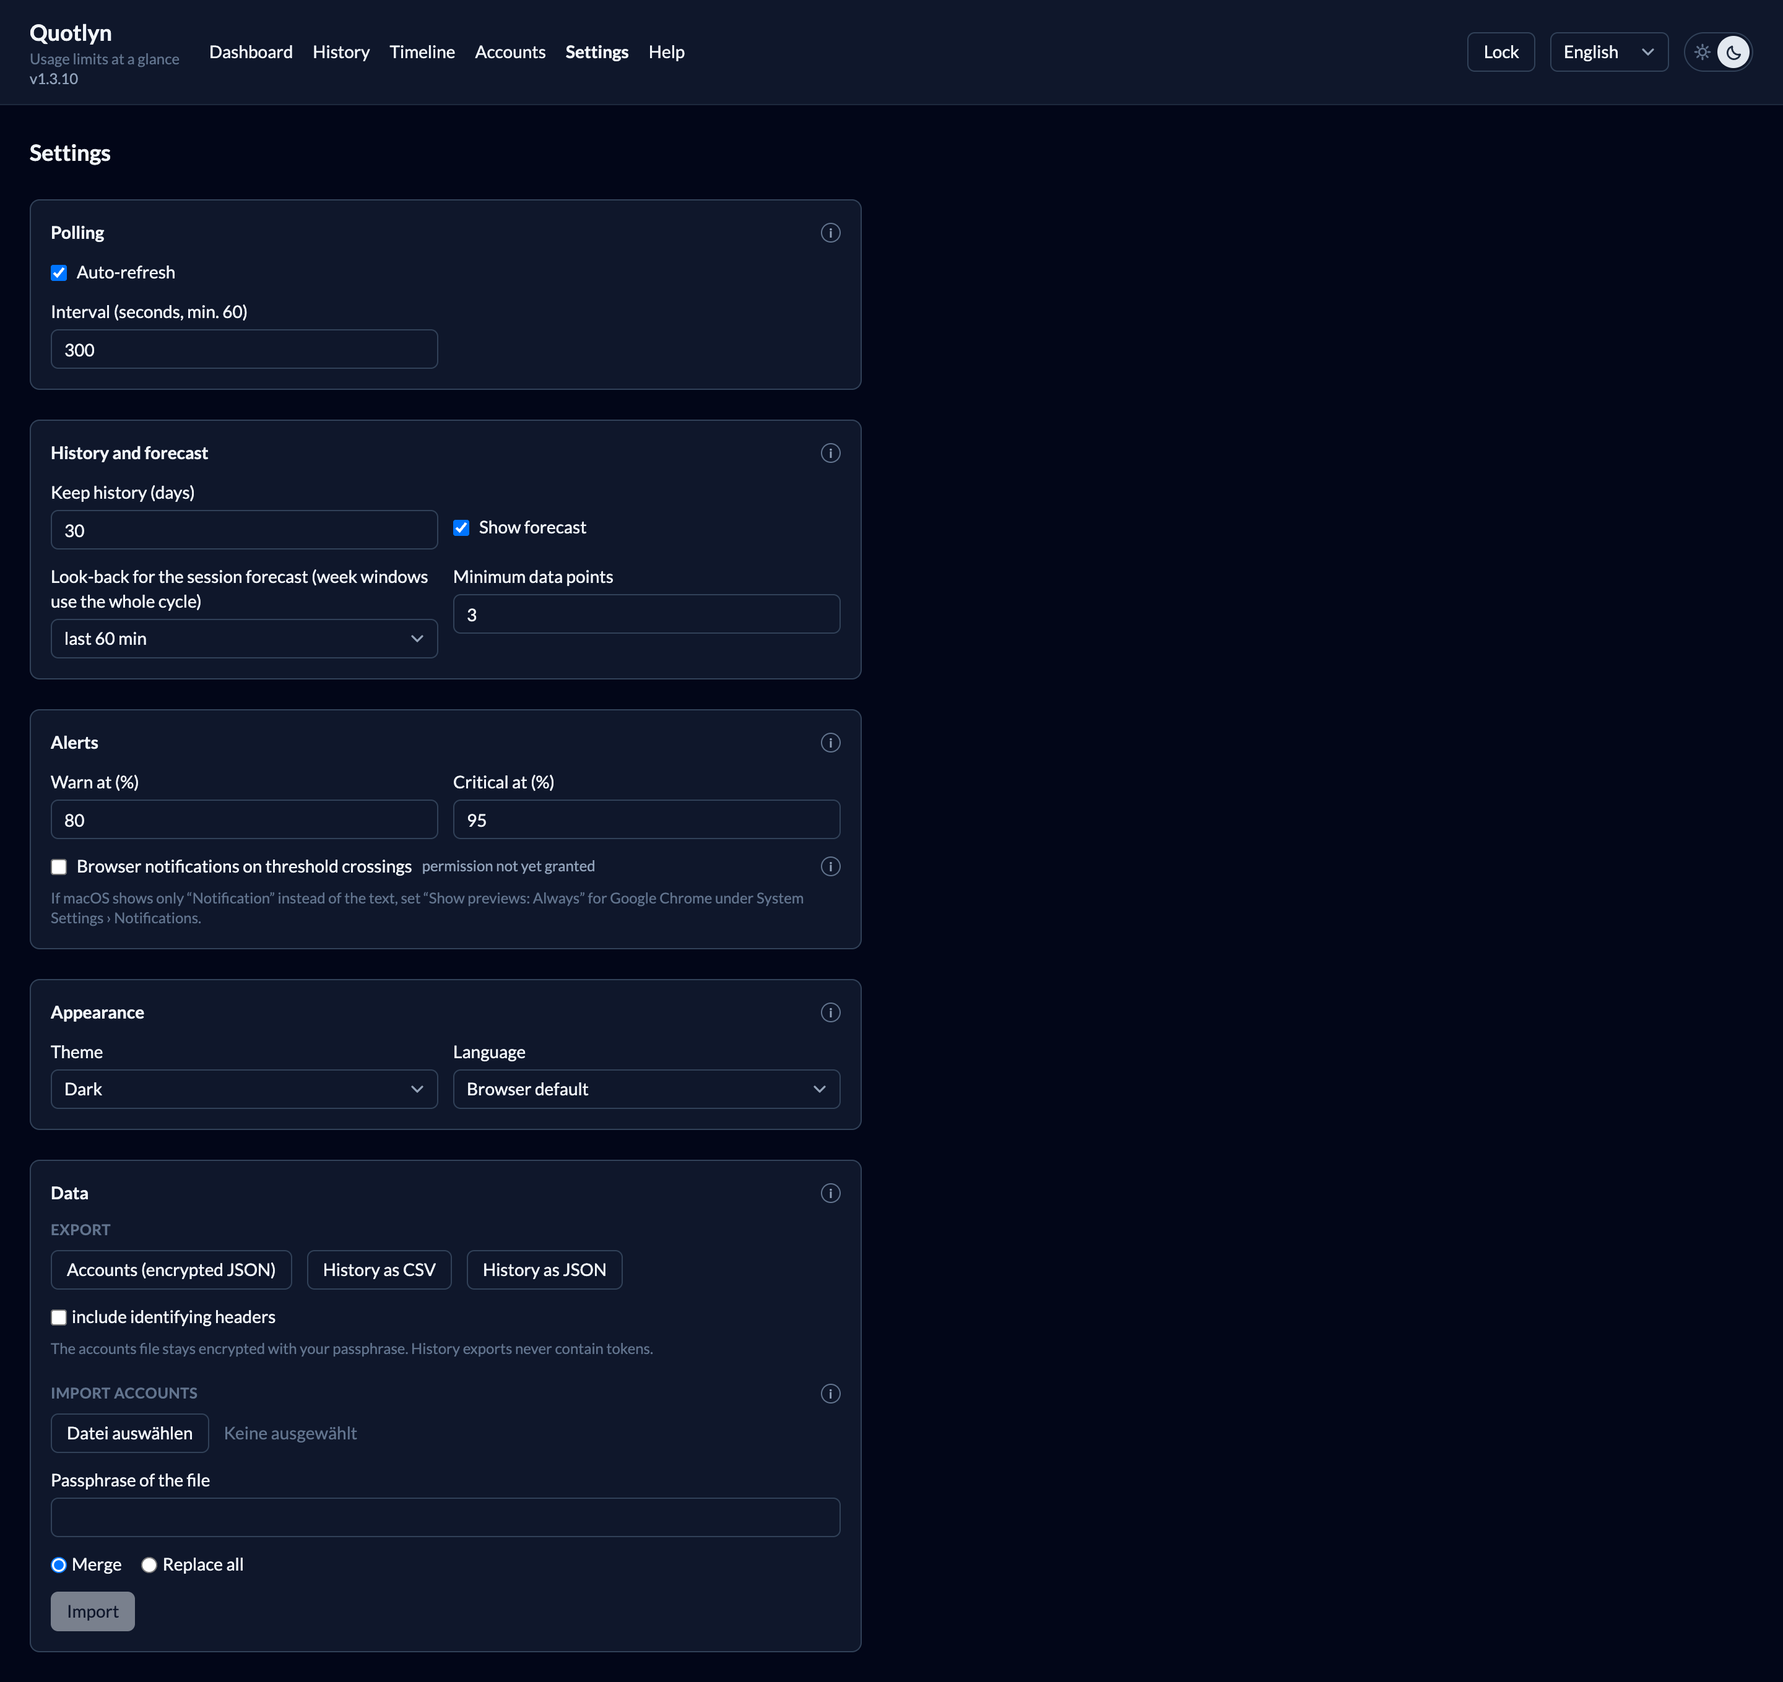
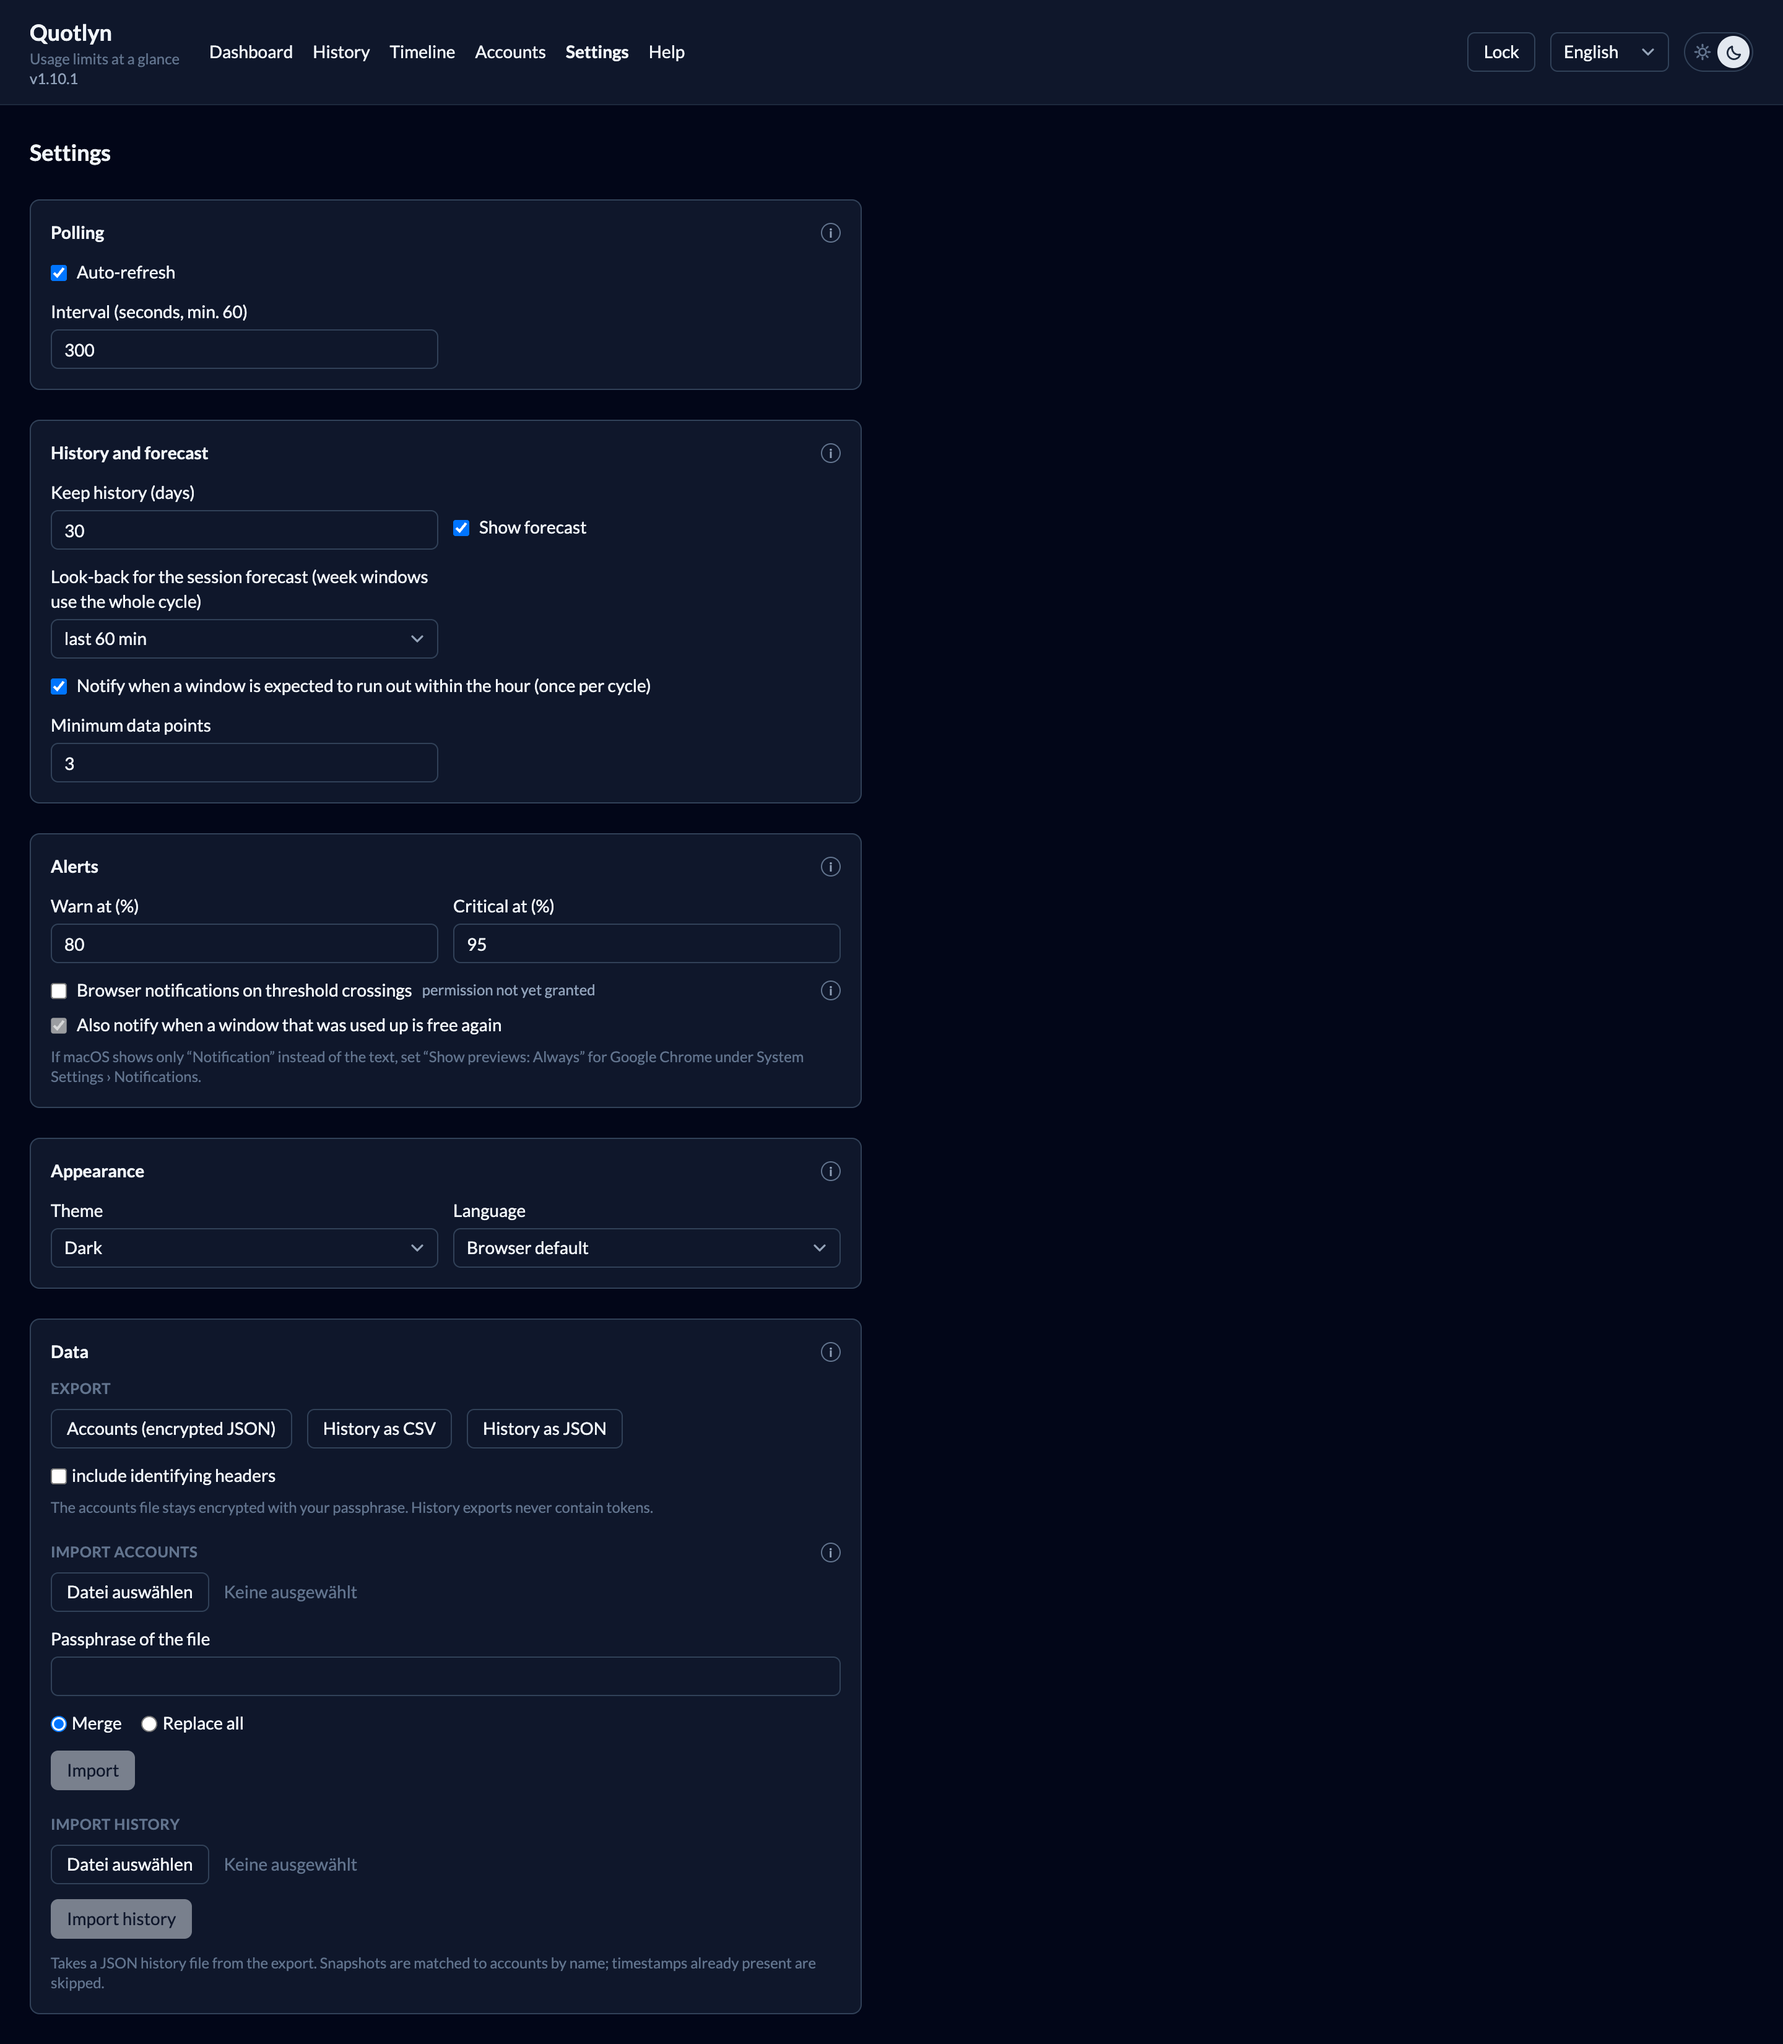
docs: feature table with crops, screenshots for light and dark, clipped to content
Every screenshot comes in a dark and a light set from real usage
history and switches with the viewer's colour scheme. Pages are clipped
to their content instead of a fixed viewport, and a feature table shows
crops: card with traffic light and forecast, rings with the clock,
recommendation strip, status tooltip, history projection, timeline,
forecast and alert settings. Texts cover the recommendation, the reset
notification, the weekly pattern, the timeline order, the favicon, the
app install and the smoke test.

diff --git a/README.md b/README.md
@@ -28,7 +28,10 @@
   <a href="#contributing">Contributing</a>
 </p>
 
-![Dashboard with one card per account, nested rings per limit window, a forecast line and a traffic light on the card edge](docs/screenshots/dashboard.png)
+<picture>
+  <source media="(prefers-color-scheme: dark)" srcset="docs/screenshots/dashboard.png">
+  <img src="docs/screenshots/light/dashboard.png" alt="Dashboard with one card per account, nested rings per limit window, a forecast line and a traffic light on the card edge">
+</picture>
 
 ## Why Quotlyn
 
@@ -86,6 +89,67 @@ Each window has a utilization from 0 to 100 % and a reset time. When a
 window is used up the API rejects requests until it resets; Quotlyn shows
 that as *Limit reached* with the current numbers rather than as an error.
 
+## Features at a glance
+
+<table>
+  <tr>
+    <td width="50%"><picture>
+  <source media="(prefers-color-scheme: dark)" srcset="docs/screenshots/feature-card.png">
+  <img src="docs/screenshots/light/feature-card.png" alt="Account card with traffic light edge, forecast line and rings">
+</picture></td>
+    <td width="50%"><picture>
+  <source media="(prefers-color-scheme: dark)" srcset="docs/screenshots/feature-rings.png">
+  <img src="docs/screenshots/light/feature-rings.png" alt="Nested rings with the cycle clock inside each ring">
+</picture></td>
+  </tr>
+  <tr>
+    <td valign="top"><b>One card per account.</b> Lead metric, reset countdown, forecast line, and a traffic light on the right edge by the most used window. Poll a single account with the arrow in the footer.</td>
+    <td valign="top"><b>Three rings, one clock each.</b> Session, week and week-Fable as nested rings; the thin clock inside each ring runs from the last reset to the next and ends where the window is expected to run out.</td>
+  </tr>
+  <tr>
+    <td><picture>
+  <source media="(prefers-color-scheme: dark)" srcset="docs/screenshots/feature-recommendation.png">
+  <img src="docs/screenshots/light/feature-recommendation.png" alt="Recommendation strip naming the account for now and for the week">
+</picture></td>
+    <td><picture>
+  <source media="(prefers-color-scheme: dark)" srcset="docs/screenshots/feature-status.png">
+  <img src="docs/screenshots/light/feature-status.png" alt="Status strip tooltip explaining the traffic light">
+</picture></td>
+  </tr>
+  <tr>
+    <td valign="top"><b>Which account now.</b> The account with the most session headroom and the one with the widest weekly window, each with its forecast, as stars on the cards and a collapsible strip.</td>
+    <td valign="top"><b>Why the colour.</b> Hover the card edge for the window that decides, the threshold it crossed and every other window.</td>
+  </tr>
+  <tr>
+    <td><picture>
+  <source media="(prefers-color-scheme: dark)" srcset="docs/screenshots/feature-history.png">
+  <img src="docs/screenshots/light/feature-history.png" alt="History chart with dashed projections to the expected exhaustion">
+</picture></td>
+    <td><picture>
+  <source media="(prefers-color-scheme: dark)" srcset="docs/screenshots/feature-timeline.png">
+  <img src="docs/screenshots/light/feature-timeline.png" alt="Timeline with full-width bars and a clock line beneath each">
+</picture></td>
+  </tr>
+  <tr>
+    <td valign="top"><b>History with projection.</b> Every reading as a line, reset bands, and a dashed continuation to the expected exhaustion or the reset. Gaps stay gaps.</td>
+    <td valign="top"><b>Reset timeline.</b> Capacity, utilization and time to the reset per window, the same clock beneath each bar, sortable by soonest exhaustion or by window.</td>
+  </tr>
+  <tr>
+    <td><picture>
+  <source media="(prefers-color-scheme: dark)" srcset="docs/screenshots/feature-settings-forecast.png">
+  <img src="docs/screenshots/light/feature-settings-forecast.png" alt="Forecast settings: look-back, minimum points, notification">
+</picture></td>
+    <td><picture>
+  <source media="(prefers-color-scheme: dark)" srcset="docs/screenshots/feature-settings-alerts.png">
+  <img src="docs/screenshots/light/feature-settings-alerts.png" alt="Alert settings: thresholds and notifications">
+</picture></td>
+  </tr>
+  <tr>
+    <td valign="top"><b>Forecast, your way.</b> Look-back for the session forecast, minimum data points, and a notification when a window is expected to run out within the hour.</td>
+    <td valign="top"><b>Alerts.</b> Warn and critical thresholds drive rings, traffic light and browser notifications, once per crossing, plus a note when a used-up window is free again.</td>
+  </tr>
+</table>
+
 ## What you see
 
 ### Dashboard
@@ -99,12 +163,18 @@ amber or red by the most used window, always red while the limit is
 reached. Hover it to see why. Each card can be polled on its own, and cards
 can be ordered as configured or by remaining room.
 
+Above the cards Quotlyn names the account to use next: an amber star for
+the session with the most headroom, a sky-blue one for the account whose
+tighter weekly window has the most room, each with its forecast.
+
 ### Forecast
 
 From the readings of the current cycle Quotlyn fits the slope of each
 window and tells you when it will be full, or how full it will be at the
 reset. The session window uses a configurable look-back, the weekly windows
 the whole cycle from 0 %, because a busy hour says nothing about a week.
+Once a previous week is in the history, the weekly forecast also blends in
+what happened over the same remaining span last week.
 
 On the cards the forecast is a line under the lead metric and a thin white
 clock inside each ring: the clock runs from the last reset to the next and
@@ -115,12 +185,18 @@ window lasts. The forecast can be switched off.
 
 <table>
   <tr>
-    <td width="50%"><img src="docs/screenshots/history.png" alt="History chart with one line per account, reset bands and a dashed projection"></td>
-    <td width="50%"><img src="docs/screenshots/timeline.png" alt="Timeline with one full-width bar per account and window"></td>
+    <td width="50%"><picture>
+  <source media="(prefers-color-scheme: dark)" srcset="docs/screenshots/history.png">
+  <img src="docs/screenshots/light/history.png" alt="History chart with one line per account, reset bands and a dashed projection">
+</picture></td>
+    <td width="50%"><picture>
+  <source media="(prefers-color-scheme: dark)" srcset="docs/screenshots/timeline.png">
+  <img src="docs/screenshots/light/timeline.png" alt="Timeline with one full-width bar per account and window">
+</picture></td>
   </tr>
   <tr>
     <td valign="top"><b>History.</b> Utilization over time per account and window, for the last 24 hours, 7 or 30 days. Shaded bands mark the periods between resets; each line continues as a dashed projection to the expected exhaustion or the reset.</td>
-    <td valign="top"><b>Reset timeline.</b> One bar per account and window: the bar is the full capacity, the fill the current utilization, the time to the reset at its end. The line beneath is the same clock as in the rings, from now to the reset. Handy for deciding which account to use next.</td>
+    <td valign="top"><b>Reset timeline.</b> One bar per account and window: the bar is the full capacity, the fill the current utilization, the time to the reset at its end. The line beneath is the same clock as in the rings, from now to the reset. Order the rows as configured, by soonest exhaustion or by window.</td>
   </tr>
 </table>
 
@@ -128,8 +204,14 @@ window lasts. The forecast can be switched off.
 
 <table>
   <tr>
-    <td width="50%"><img src="docs/screenshots/accounts.png" alt="Account form with token test"></td>
-    <td width="50%"><img src="docs/screenshots/settings.png" alt="Settings page with five groups"></td>
+    <td width="50%"><picture>
+  <source media="(prefers-color-scheme: dark)" srcset="docs/screenshots/accounts.png">
+  <img src="docs/screenshots/light/accounts.png" alt="Account form with token test">
+</picture></td>
+    <td width="50%"><picture>
+  <source media="(prefers-color-scheme: dark)" srcset="docs/screenshots/settings.png">
+  <img src="docs/screenshots/light/settings.png" alt="Settings page with five groups">
+</picture></td>
   </tr>
   <tr>
     <td valign="top"><b>Accounts.</b> Name, colour, token, lead metric and per-account notifications. Reorder with the arrows, test a token before saving.</td>
@@ -141,7 +223,10 @@ window lasts. The forecast can be switched off.
 
 A step-by-step guide to obtaining a token, right inside the app.
 
-![Help page](docs/screenshots/help.png)
+<picture>
+  <source media="(prefers-color-scheme: dark)" srcset="docs/screenshots/help.png">
+  <img src="docs/screenshots/light/help.png" alt="Help page">
+</picture>
 
 ### Also included
 
@@ -149,11 +234,12 @@ A step-by-step guide to obtaining a token, right inside the app.
   each card. Identifying values are masked by default; headers Quotlyn does
   not know yet are flagged as new, so nothing the API adds goes unnoticed.
 - Browser notifications when a window crosses a threshold, once per
-  crossing rather than on every poll, and when a window is expected to
-  run out within the hour, once per cycle. They say which window, how far
-  it is and when it resets.
-- The browser tab shows the highest utilization, so a glance at the tab
-  bar is enough.
+  crossing rather than on every poll, when a window is expected to run out
+  within the hour, once per cycle, and when a used-up window is free
+  again. They say which window, how far it is and when it resets.
+- The browser tab shows the highest utilization in its title and in the
+  favicon, so a glance at the tab bar is enough. Quotlyn can be installed
+  as a standalone app from the browser.
 - Export of the encrypted account file and of the history as CSV or JSON.
   Import merges or replaces accounts from an exported file, and a history
   export can be imported again on another browser or machine.
@@ -216,12 +302,13 @@ different port so a host-side `npm run dev` can coexist with it.
 npm run dev:mock  # the app against a fake API on http://localhost:15173, no token needed
 npm test          # Vitest
 npm run build     # vue-tsc + Vite, the type gate for .vue files
+npm run smoke     # every page in a headless browser against the mock, fails on page errors
 ```
 
 Vue 3, TypeScript, Pinia, Tailwind, vue-i18n and Apache ECharts. Pure
 logic (parsing, polling, thresholds, forecast, crypto, export) lives in
-framework-free modules with unit tests; components stay thin. Tests and
-build run in CI on every push. The mock API and the screenshot tooling are
+framework-free modules with unit tests; components stay thin. Tests,
+build and the smoke test run in CI on every push. The mock API and the screenshot tooling are
 described in [scripts/screenshots/README.md](scripts/screenshots/README.md).
 
 The header shows the version from `package.json`. Releases go through

diff --git a/scripts/screenshots/README.md b/scripts/screenshots/README.md
@@ -24,10 +24,14 @@ node scripts/screenshots/docs-shoot.cjs out
 node scripts/screenshots/replay-upstream.mjs history.json # real export, instead of the mock
 QUOTLYN_UPSTREAM=http://localhost:18999 QUOTLYN_PROXY_PORT=18787 node proxy/server.mjs
 QUOTLYN_PROXY_PORT=18787 npx vite --port 15173
-node scripts/screenshots/docs-shoot-live.cjs out history.json
+node scripts/screenshots/docs-shoot-live.cjs out history.json dark     # docs/screenshots
+node scripts/screenshots/docs-shoot-live.cjs out-light history.json light  # docs/screenshots/light
 ```
 
-Both scripts drive the installed Google Chrome through playwright-core (a dev dependency), dark
-theme, 1440 × 900 at 2×, and write the six images the README uses; copy them to `docs/screenshots/`.
+Both scripts drive the installed Google Chrome through playwright-core (a dev dependency) at
+1440 px wide and 2×. The live script clips every page to its content and also writes the
+`feature-*.png` crops the README's feature table uses; run it once per theme and copy the results
+to `docs/screenshots/` (dark) and `docs/screenshots/light/`. The README shows the dark set to
+viewers with a dark colour scheme and the light set otherwise.
 
 `shoot.cjs` takes QA shots instead: light and dark, narrow viewport, hover states, raw headers.
